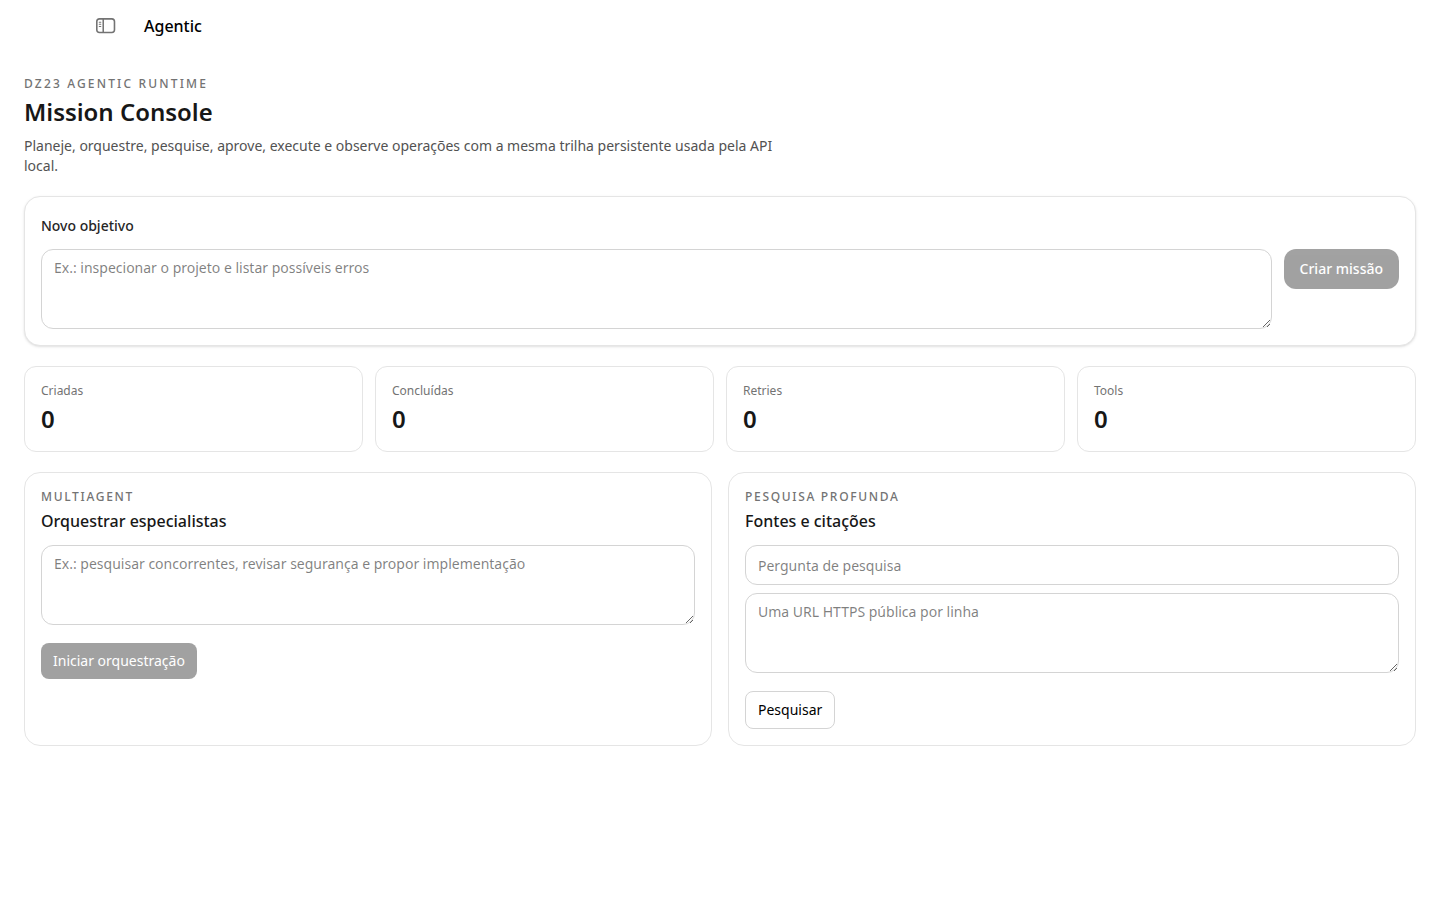
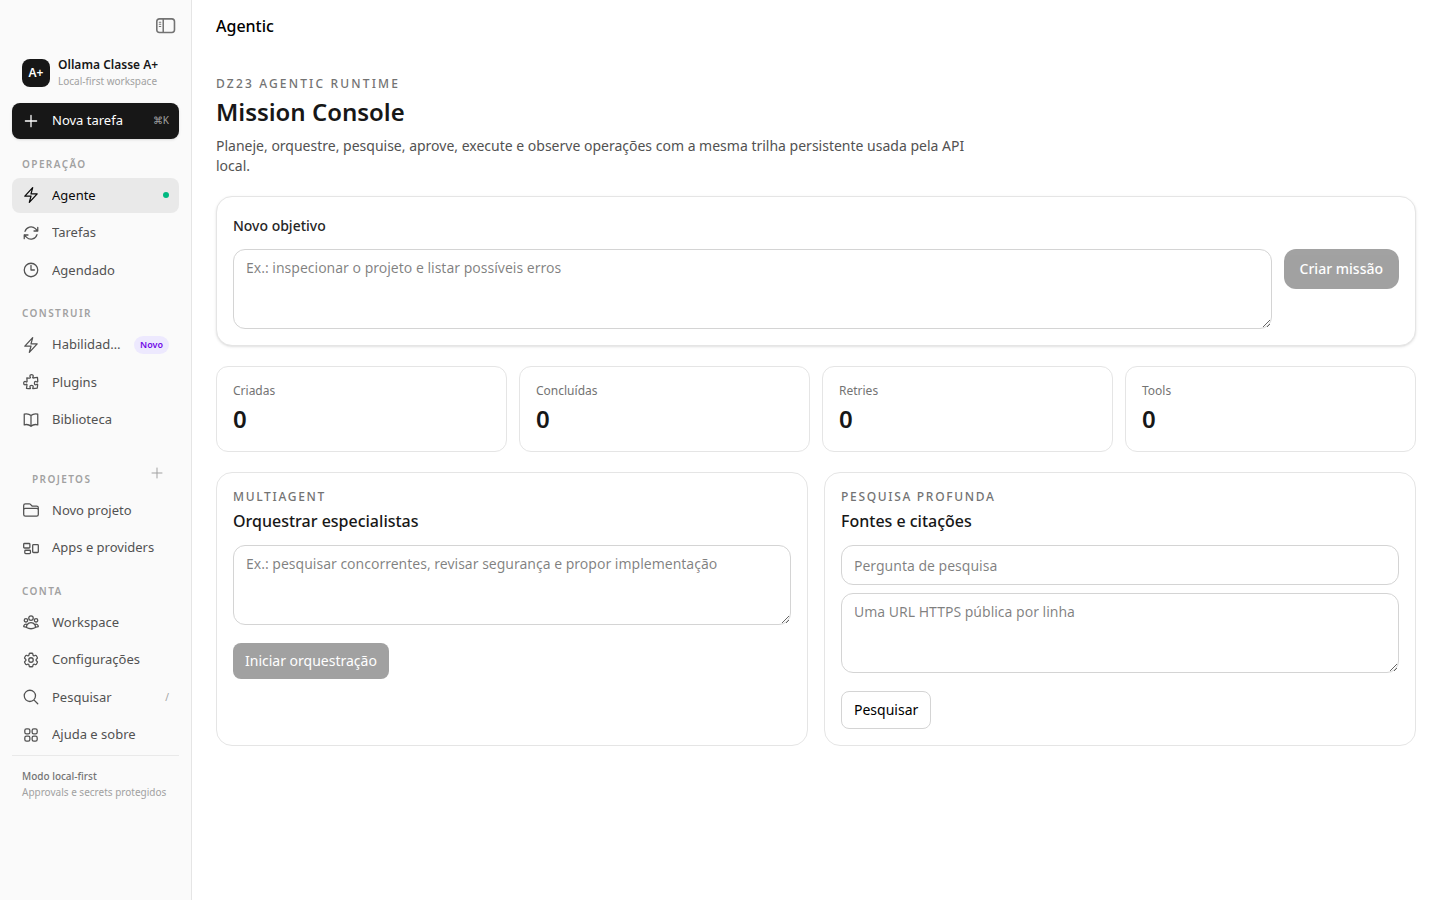
feat: protect agentic surfaces and keep desktop shell visible

diff --git a/app/ui/app/src/components/ProductWorkspacePage.tsx b/app/ui/app/src/components/ProductWorkspacePage.tsx
@@ -1,4 +1,5 @@
 import { Link } from "@tanstack/react-router";
+import { useState } from "react";
 import {
   ArrowRightIcon,
   CheckCircleIcon,
@@ -85,6 +86,23 @@ function StatCard({ label, value, tone = "neutral" }: { label: string; value: st
 export function ProductWorkspacePage({ kind }: { kind: ProductPageKind }) {
   const copy = pageCopy[kind];
   const current = kind as AppSection;
+  const [notice, setNotice] = useState<string | null>(null);
+
+  const handleAction = () => {
+    if (kind === "tasks") {
+      window.location.assign("/agentic");
+      return;
+    }
+    setNotice(`${copy.action} será conectado ao contrato persistente desta superfície na próxima fatia. Nenhuma ação externa foi executada.`);
+  };
+
+  const handleExplore = () => {
+    if (kind === "projects") {
+      window.location.assign("/agentic");
+      return;
+    }
+    setNotice("O fluxo está protegido por approval e ainda não há dados persistidos neste workspace.");
+  };
 
   return (
     <SidebarLayout title={copy.title} sidebar={<AppSidebar current={current} />}>
@@ -99,11 +117,17 @@ export function ProductWorkspacePage({ kind }: { kind: ProductPageKind }) {
               <h2 className="font-rounded text-3xl font-semibold tracking-tight text-neutral-950 dark:text-white">{copy.title}</h2>
               <p className="mt-3 text-sm leading-6 text-neutral-500 dark:text-neutral-400">{copy.description}</p>
             </div>
-            <button className="inline-flex items-center justify-center gap-2 rounded-xl bg-neutral-950 px-4 py-2.5 text-sm font-medium text-white shadow-sm transition hover:bg-neutral-700 focus-visible:outline-none focus-visible:ring-2 focus-visible:ring-neutral-400 dark:bg-white dark:text-neutral-950 dark:hover:bg-neutral-200">
+            <button onClick={handleAction} className="inline-flex items-center justify-center gap-2 rounded-xl bg-neutral-950 px-4 py-2.5 text-sm font-medium text-white shadow-sm transition hover:bg-neutral-700 focus-visible:outline-none focus-visible:ring-2 focus-visible:ring-neutral-400 dark:bg-white dark:text-neutral-950 dark:hover:bg-neutral-200">
               <PlusIcon className="h-4 w-4" />
               {copy.action}
             </button>
           </div>
+
+          {notice && (
+            <div role="status" aria-live="polite" className="mt-5 rounded-xl border border-violet-200 bg-violet-50 px-4 py-3 text-xs leading-5 text-violet-800 dark:border-violet-900/60 dark:bg-violet-950/20 dark:text-violet-200">
+              {notice}
+            </div>
+          )}
 
           <div className="mt-7 grid gap-3 sm:grid-cols-3">
             <StatCard label="Status" value={copy.metric} tone="green" />
@@ -123,7 +147,7 @@ export function ProductWorkspacePage({ kind }: { kind: ProductPageKind }) {
               <div className="mt-8 rounded-xl border border-dashed border-neutral-300 px-6 py-10 text-center dark:border-neutral-700">
                 <FolderOpenIcon className="mx-auto h-8 w-8 text-neutral-300 dark:text-neutral-600" />
                 <p className="mx-auto mt-3 max-w-md text-sm text-neutral-500 dark:text-neutral-400">{copy.empty}</p>
-                <button className="mt-5 inline-flex items-center gap-2 rounded-lg border border-neutral-200 px-3 py-2 text-xs font-medium text-neutral-700 hover:bg-neutral-50 dark:border-neutral-700 dark:text-neutral-200 dark:hover:bg-neutral-800">
+                <button onClick={handleExplore} className="mt-5 inline-flex items-center gap-2 rounded-lg border border-neutral-200 px-3 py-2 text-xs font-medium text-neutral-700 hover:bg-neutral-50 dark:border-neutral-700 dark:text-neutral-200 dark:hover:bg-neutral-800">
                   Explorar fluxo
                   <ArrowRightIcon className="h-3.5 w-3.5" />
                 </button>

diff --git a/app/ui/app/src/components/layout/layout.tsx b/app/ui/app/src/components/layout/layout.tsx
@@ -3,7 +3,9 @@ import { ChatIcon } from "@/components/ChatIcon";
 import { isWindowsPlatform } from "@/lib/platform";
 import { useState } from "react";
 
-let sessionSidebarOpen = false;
+// The agentic desktop shell is navigation-first. Keep the sidebar visible by
+// default and preserve the operator's choice only for the current session.
+let sessionSidebarOpen = true;
 
 export function SidebarLayout({
   sidebar,

diff --git a/UPSTREAM_POLICY.md b/UPSTREAM_POLICY.md
@@ -1,0 +1,45 @@
+# Política de atualização upstream — Ollama Classe A+
+
+## Regra principal
+
+O Ollama Classe A+ é um fork com uma superfície agentic própria. **Nenhuma atualização do repositório upstream altera este projeto automaticamente.** O remote `upstream` é usado somente para consulta e comparação. A integração de mudanças upstream exige uma branch manual, revisão de diff, execução dos guardrails e aprovação por Pull Request.
+
+A base upstream aceita nesta revisão está registrada em [`UPSTREAM_BASE_COMMIT`](UPSTREAM_BASE_COMMIT). Esse marcador não é uma promessa de compatibilidade total entre versões; ele é um ponto de auditoria para saber qual motor foi analisado.
+
+## O que fica protegido
+
+O guardrail [`scripts/check-class-a-plus-integrity.sh`](scripts/check-class-a-plus-integrity.sh) falha se desaparecerem ou forem descaracterizados os contratos centrais:
+
+- runtime agentic, planner, tools, sandbox, approvals, recovery e artifacts;
+- multi-provider, Anthropic/Claude, Codex proxy e preset OmniRoute;
+- API `/api/agent/v1`, incluindo configuração sanitizada;
+- shell desktop, Agentic Console, Settings e rotas de Projetos, Biblioteca, Agendado, Habilidades, Plugins e Tarefas;
+- matriz de paridade, árvore de produto e política manual de upstream;
+- regras que impedem segredos, `node_modules`, chaves e certificados de entrarem no Git.
+
+A existência do arquivo não basta. Os testes Go, build da UI, smoke Chromium e checks de segurança continuam obrigatórios.
+
+## Procedimento de atualização do motor
+
+1. Faça `git fetch --no-tags upstream main` sem modificar `main`, a branch de publicação ou a branch agentic ativa.
+2. Crie uma branch `chore/upstream-YYYYMMDD` a partir de `class-a-plus/main`.
+3. Compare o novo commit com [`UPSTREAM_BASE_COMMIT`](UPSTREAM_BASE_COMMIT). Nunca faça force-push nem substitua o histórico público.
+4. Reaplique ou resolva conflitos preservando `internal/agent`, `internal/multillm`, `server/agent_routes.go`, UI, mobile, políticas e documentação Classe A+.
+5. Atualize `UPSTREAM_BASE_COMMIT` somente depois de revisar o diff e os riscos.
+6. Execute, no mínimo:
+
+   ```bash
+   scripts/check-class-a-plus-integrity.sh
+   CGO_ENABLED=0 go test ./internal/agent -count=1
+   CGO_ENABLED=1 go test ./server ./cmd/launch ./internal/multillm -count=1
+   (cd app/ui/app && npm ci --no-audit --no-fund && npm run build)
+   ```
+
+7. Execute o smoke Chromium das rotas e botões do shell. Se uma rota, botão, provider, approval ou artifact regredir, a branch não pode ser mesclada.
+8. Abra uma PR descrevendo conflitos, APIs alteradas, testes, screenshots, riscos e rollback. A publicação em `main` ocorre somente após os checks obrigatórios passarem.
+
+## O que não será feito
+
+Não será criado um mecanismo que sobrescreva automaticamente o fork com o upstream. Não serão removidos testes para acomodar uma atualização. Não serão preservados nomes de recursos enquanto a execução real tiver sido quebrada. Não serão copiados internals, código, assets ou interface proprietária de Manus, Claude, Codex, OmniRoute ou qualquer outro produto.
+
+A paridade pretendida é funcional e observável. A proteção do fork é feita por isolamento de branches, marcador de base, guardrail, CI, testes, screenshots e revisão de release.

diff --git a/docs/CLASS_A_PLUS_GUIDE.md b/docs/CLASS_A_PLUS_GUIDE.md
@@ -224,6 +224,8 @@ Para testes distribuídos que exigem serviços reais, use a tag e variáveis doc
 
 Também revise `git diff --check`, rode scanners de segredos, verifique permissões dos arquivos, confirme que não há tokens em logs e valide autorização negativa por organização. Toda operação com efeito externo deve ter approval, timeout, limite e registro auditável.
 
+Para proteger as superfícies Classe A+ durante atualizações do motor, execute também `scripts/check-class-a-plus-integrity.sh` e `node app/ui/app/scripts/smoke-shell.mjs`. A política completa de atualização manual, o commit upstream aceito e o procedimento de rollback estão em [`UPSTREAM_POLICY.md`](../UPSTREAM_POLICY.md). O remote `upstream` nunca é mesclado automaticamente.
+
 ## Como contribuir
 
 Crie uma branch descritiva a partir de `main`. Para cada feature, documente o objetivo, o contrato de API, a matriz de autorização, os estados de UI, o risco, os testes, a observabilidade e o plano de rollback. Implemente primeiro um fluxo vertical funcional antes de adicionar telas estáticas ou abstrações genéricas.
@@ -265,9 +267,9 @@ Este repositório deriva de uma base Ollama e deve preservar os arquivos de lice
 
 ## Links públicos
 
-- [Repositório Ollama Classe A+](https://github.com/LMPrado-DZ23/ollama-classe-a-plus)
-- [Branch de evolução agentic](https://github.com/LMPrado-DZ23/ollama-classe-a-plus/tree/feat/dz23-claude-codex-desktop)
-- [PR de revisão inicial](https://github.com/LMPrado-DZ23/ollama-classe-a-plus/pulls)
+- [Repositório público canônico](https://github.com/DZ23-LTDA/ollama-classe-a-plus)
+- [Branch de evolução agentic](https://github.com/DZ23-LTDA/ollama-classe-a-plus/tree/feat/manus-parity-omniroute)
+- [PRs de revisão](https://github.com/DZ23-LTDA/ollama-classe-a-plus/pulls)
 - [Arquitetura agentic](agentic/ARCHITECTURE.md)
 - [API agentic](agentic/API.md)
 - [Integrações](agentic/INTEGRATIONS.md)

diff --git a/docs/images/screens/SCREEN_CAPTURE_NOTES.md b/docs/images/screens/SCREEN_CAPTURE_NOTES.md
@@ -6,6 +6,6 @@
 
 `class-a-plus-settings.png` é uma captura real da rota `/settings` após a primeira evolução do shell Classe A+. Ela mostra o **Agentic Control Center**, catálogo de providers quando disponível, estado sanitizado de approvals/workspace/auth e o aviso honesto de que a configuração nativa depende do backend Ollama. Ela não prova que credenciais, providers externos ou deploys estão configurados.
 
-`class-a-plus-projects.png`, `class-a-plus-library.png`, `class-a-plus-scheduled.png`, `class-a-plus-skills.png`, `class-a-plus-plugins.png` e `class-a-plus-tasks.png` são capturas reais das novas rotas do shell. Nesta rodada, essas superfícies têm estados vazios e ações de entrada; o conteúdo persistido e o CRUD completo ainda dependem da conexão dos contratos da API agentic.
+`class-a-plus-projects.png`, `class-a-plus-library.png`, `class-a-plus-scheduled.png`, `class-a-plus-skills.png`, `class-a-plus-plugins.png` e `class-a-plus-tasks.png` são capturas reais das novas rotas do shell, com o menu lateral Classe A+ aberto por padrão. Nesta rodada, essas superfícies têm estados vazios e ações de entrada; o conteúdo persistido e o CRUD completo ainda dependem da conexão dos contratos da API agentic. O script `app/ui/app/scripts/smoke-shell.mjs` verifica menu, títulos, links e ações primárias/empty-state.
 
 As capturas usam dados demonstrativos e não representam uma execução contra um ambiente de produção. O README deve identificá-las como screenshots da implementação atual com dados demo.

diff --git a/CHANGELOG.md b/CHANGELOG.md
@@ -11,6 +11,8 @@ Este arquivo registra as entregas públicas da distribuição `DZ23-LTDA/ollama-
 - Endpoint `GET /api/agent/v1/config/safe` sem tokens, caminhos privados ou valores sensíveis.
 - Preset OmniRoute local, opt-in HTTP loopback protegido e smoke tests de forwarding/bearer server-side.
 - Screenshots reais das novas rotas capturadas com Chromium e notas de proveniência atualizadas.
+- Menu lateral Classe A+ aberto por padrão, com smoke test Chromium de rotas, links, ações primárias e estados vazios.
+- `UPSTREAM_BASE_COMMIT`, `UPSTREAM_POLICY.md`, guardrail de integridade e workflow CI para impedir perda silenciosa das superfícies agentic.
 
 ## [0.1.0] — Preview público
 

diff --git a/README.md b/README.md
@@ -27,6 +27,7 @@ As imagens acima são capturas reais das rotas `/agentic` e `/settings`. A Setti
 | Roadmap e status por fase | [`agentic/ROADMAP.md`](docs/agentic/ROADMAP.md) |
 | Árvore Manus observável + Classe A+ unificado | [`agentic/PRODUCT_TREE.md`](docs/agentic/PRODUCT_TREE.md) |
 | Matriz de paridade e evidências | [`agentic/PARITY_MATRIX.md`](docs/agentic/PARITY_MATRIX.md) |
+| Proteção contra regressões upstream | [`UPSTREAM_POLICY.md`](UPSTREAM_POLICY.md) + [`check-class-a-plus-integrity.sh`](scripts/check-class-a-plus-integrity.sh) |
 
 Start building with open models.
 
